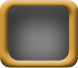
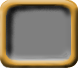
ajout theme blueplastic modif image frame correction mauvais affichage des menus fullscreen
git-svn-id: svn+ssh://src.fovea.cc/svn/flobopuyo/trunk@868 053fdb51-1f17-0410-be66-d00040120cd6

diff --git a/PuyoOptionMenu.cpp b/PuyoOptionMenu.cpp
@@ -54,7 +54,7 @@ OptionMenu::OptionMenu(PuyoMainScreen *mainScreen) : PuyoMainScreenMenu(mainScre
     musicButton(theCommander->getLocalizedString(kMusic), theCommander->getLocalizedString("OFF"), theCommander->getLocalizedString("ON "), theCommander->getMusic(), &toggleMusicAction),
     fullScreenButton(theCommander->getLocalizedString(kFullScreen), theCommander->getLocalizedString("OFF"), theCommander->getLocalizedString("ON "), theCommander->getFullScreen(), &toggleFullScreenAction),
     controlMenu(mainScreen), themeMenu(mainScreen), levelMenu(mainScreen),
-    changeThemeAction(&themeMenu, mainScreen), changeLevelAction(&levelMenu, mainScreen), changeControlsAction(&controlMenu, mainScreen),
+    changeThemeAction(&themeMenu, mainScreen), changeLevelAction(&levelMenu, mainScreen), changeControlsAction(&controlMenu, mainScreen, true),
     changePuyoThemeButton(theCommander->getLocalizedString(kChangePuyoTheme), &changeThemeAction),
     changeLevelThemeButton(theCommander->getLocalizedString(kChangePuyoLevel), &changeLevelAction),
     changeControlsButton(theCommander->getLocalizedString(kControls), &changeControlsAction), backAction(mainScreen), backButton(theCommander->getLocalizedString("Back"), &backAction)

diff --git a/gametools/Frame.cpp b/gametools/Frame.cpp
@@ -14,7 +14,8 @@ namespace gameui {
 const int Frame::leftW = 25, Frame::middleW = 28, Frame::rightW = 25;
 const int Frame::topH = 19, Frame::middleH = 26, Frame::bottomH = 23;
 
-Frame::Frame(IIM_Surface *frameSurface, GameLoop *loop) : VBox(loop), m_frameSurface(frameSurface), m_bgSurface(NULL)
+Frame::Frame(IIM_Surface *frameSurface, GameLoop *loop)
+  : VBox(loop), m_frameSurface(frameSurface), m_bgSurface(NULL), m_borderVisible(true)
 {
     setPolicy(USE_MIN_SIZE);
     setInnerMargin(9);
@@ -115,7 +116,8 @@ void Frame::draw(SDL_Surface *screen)
                                              (m_bgSurface->format->Amask & 0x80808080));
     }
     // Drawing the background
-    SDL_BlitSurface(m_bgSurface, &srcrect, screen, &dstrect);
+    if (m_borderVisible)
+        SDL_BlitSurface(m_bgSurface, &srcrect, screen, &dstrect);
     VBox::draw(screen);
 }
 

diff --git a/PuyoNetCenterMenu.cpp b/PuyoNetCenterMenu.cpp
@@ -54,7 +54,8 @@ NetCenterDialogMenu::NetCenterDialogMenu(NetCenterMenu *targetMenu, PuyoGameInvi
       associatedInvitation(associatedInvitation), dialogTitle(title), dialogMsg(message),
       acceptButton(theCommander->getLocalizedString("Accept"), &acceptAction),
       cancelButton(theCommander->getLocalizedString("Cancel"), &cancelAction)
-{}
+{
+}
 
 NetCenterDialogMenu::~NetCenterDialogMenu()
 {
@@ -201,6 +202,7 @@ NetCenterMenu::NetCenterMenu(PuyoMainScreen *mainScreen, PuyoNetGameCenter *netC
       topSeparator(0, 5), middleSeparator(0, 5), bottomSeparator(0, 5)
 {
     GameUIDefaults::GAME_LOOP->addIdle(&cycled);
+    this->setBorderVisible(false);
     netCenter->addListener(this);
 }
 

diff --git a/gametools/ListView.cpp b/gametools/ListView.cpp
@@ -238,7 +238,11 @@ void ListView::draw(SDL_Surface *screen)
 #endif
         m_bgSurface = SDL_CreateRGBSurface(SDL_SWSURFACE | SDL_SRCALPHA, lbsize.x, lbsize.y, 32, 
                                       rmask, gmask, bmask, amask);
-        SDL_FillRect(m_bgSurface, &srcrect, m_bgSurface->format->Amask & 0x80808080);
+        SDL_FillRect(m_bgSurface, &srcrect,
+            (m_bgSurface->format->Rmask & 0xFFFFFFFF) |
+            (m_bgSurface->format->Gmask & 0xFFFFFFFF) |
+            (m_bgSurface->format->Bmask & 0xFFFFFFFF) |
+            (m_bgSurface->format->Amask & 0x80808080));
     }
     dstrect.x = listBox.getPosition().x;
     dstrect.y = listBox.getPosition().y;

diff --git a/PuyoCommander.h b/PuyoCommander.h
@@ -63,11 +63,13 @@ protected:
 class PuyoPushMenuAction : public Action
 {
 public:
-    PuyoPushMenuAction(PuyoMainScreenMenu *menu, PuyoMainScreen *mainScreen) : menu(menu), mainScreen(mainScreen) {}
+    PuyoPushMenuAction(PuyoMainScreenMenu *menu, PuyoMainScreen *mainScreen, bool fullScreen = false)
+      : menu(menu), mainScreen(mainScreen), m_fullScreen(fullScreen) {}
     void action();
 private:
     PuyoMainScreen *mainScreen;
     PuyoMainScreenMenu *menu;
+    bool m_fullScreen;
 };
 
 class PuyoPopMenuAction : public Action

diff --git a/gametools/Frame.h b/gametools/Frame.h
@@ -19,11 +19,14 @@ public:
     Frame(IIM_Surface *frameSurface, GameLoop *loop = NULL);
     virtual ~Frame();
     virtual void draw(SDL_Surface *screen);
+    void setBorderVisible(bool borderVisible) { m_borderVisible = borderVisible; }
+    bool getBorderVisible() const { return m_borderVisible; }
 private:
     static const int leftW, middleW, rightW;
     static const int topH, middleH, bottomH;
     IIM_Surface *m_frameSurface;
     SDL_Surface *m_bgSurface;
+    bool m_borderVisible;
 };
 
 }

diff --git a/PuyoNetworkMenu.cpp b/PuyoNetworkMenu.cpp
@@ -327,6 +327,7 @@ InternetGameMenu::InternetGameMenu(PuyoMainScreen * mainScreen)
     pushNetCenter(mainScreen, &serverName, &serverPort, &playerName), backAction(mainScreen),
     joinButton("Join", &pushNetCenter), backButton("Back", &backAction)
 {
+    this->setBorderVisible(false);
 }
 
 InternetGameMenu::~InternetGameMenu()

diff --git a/PuyoCommander.cpp b/PuyoCommander.cpp
@@ -46,7 +46,7 @@ class SinglePlayerGameAction : public Action {
 
 void PuyoPushMenuAction::action()
 {
-    mainScreen->pushMenu(menu);
+    mainScreen->pushMenu(menu, m_fullScreen);
 }
 
 void PuyoPopMenuAction::action()
